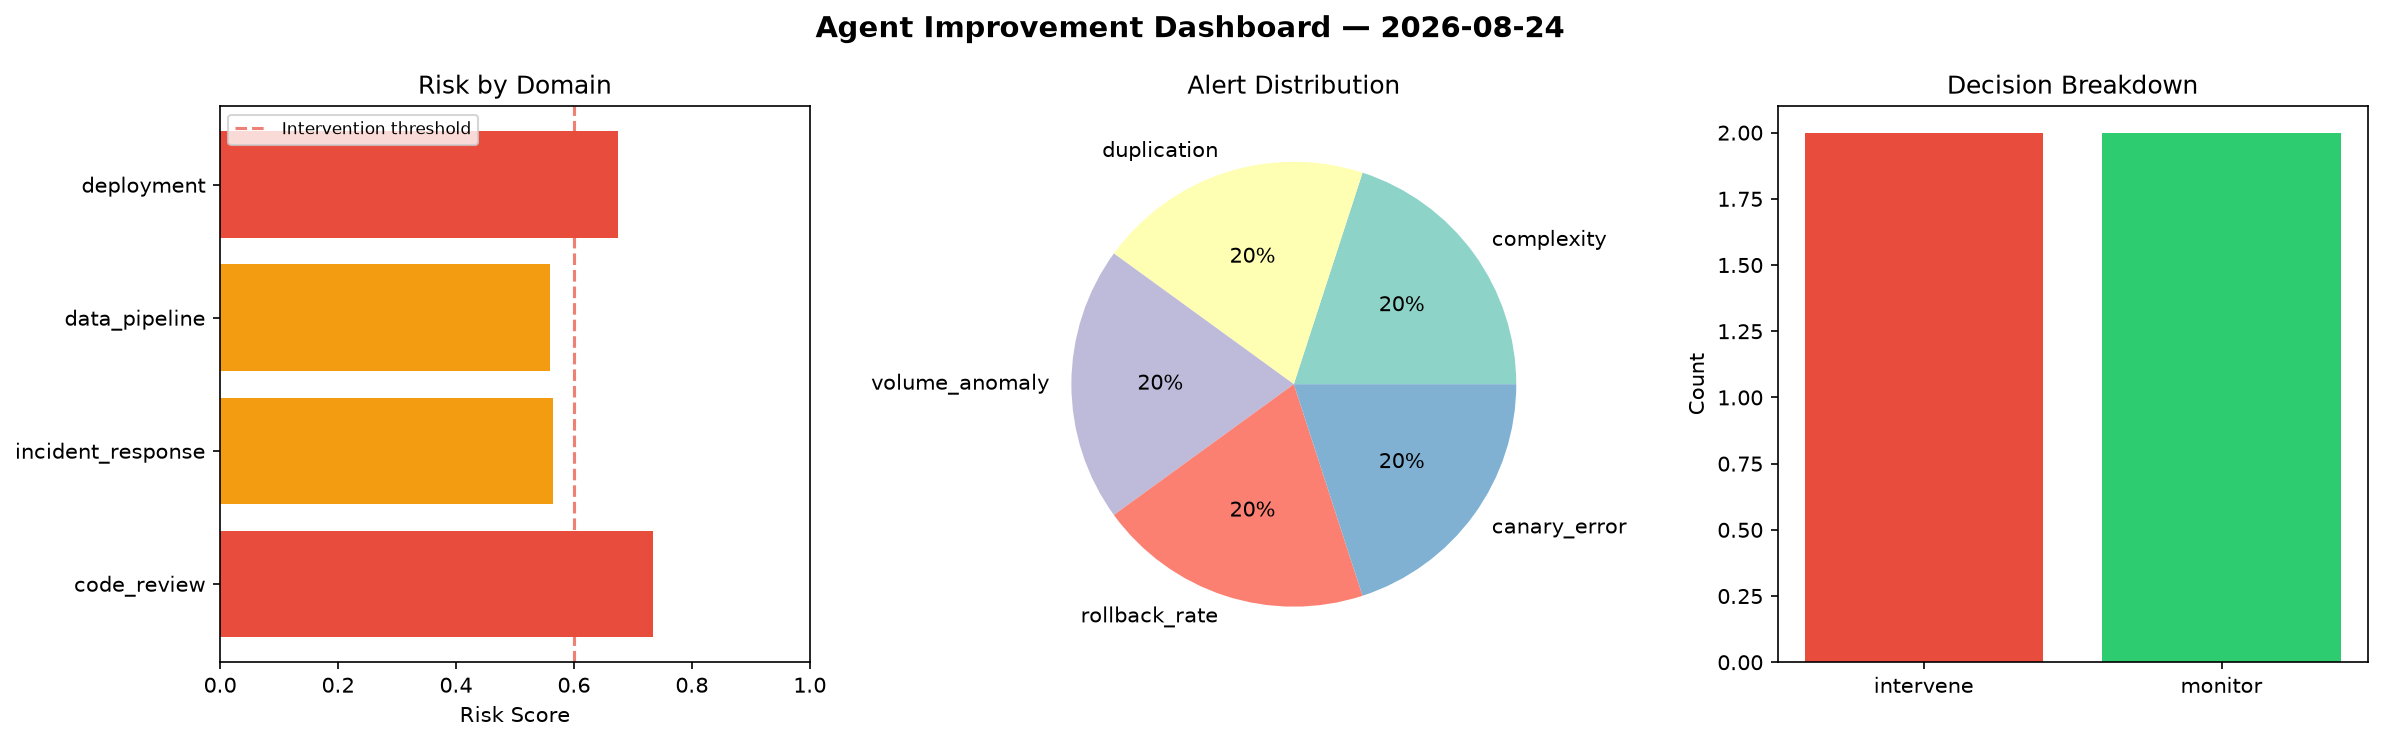
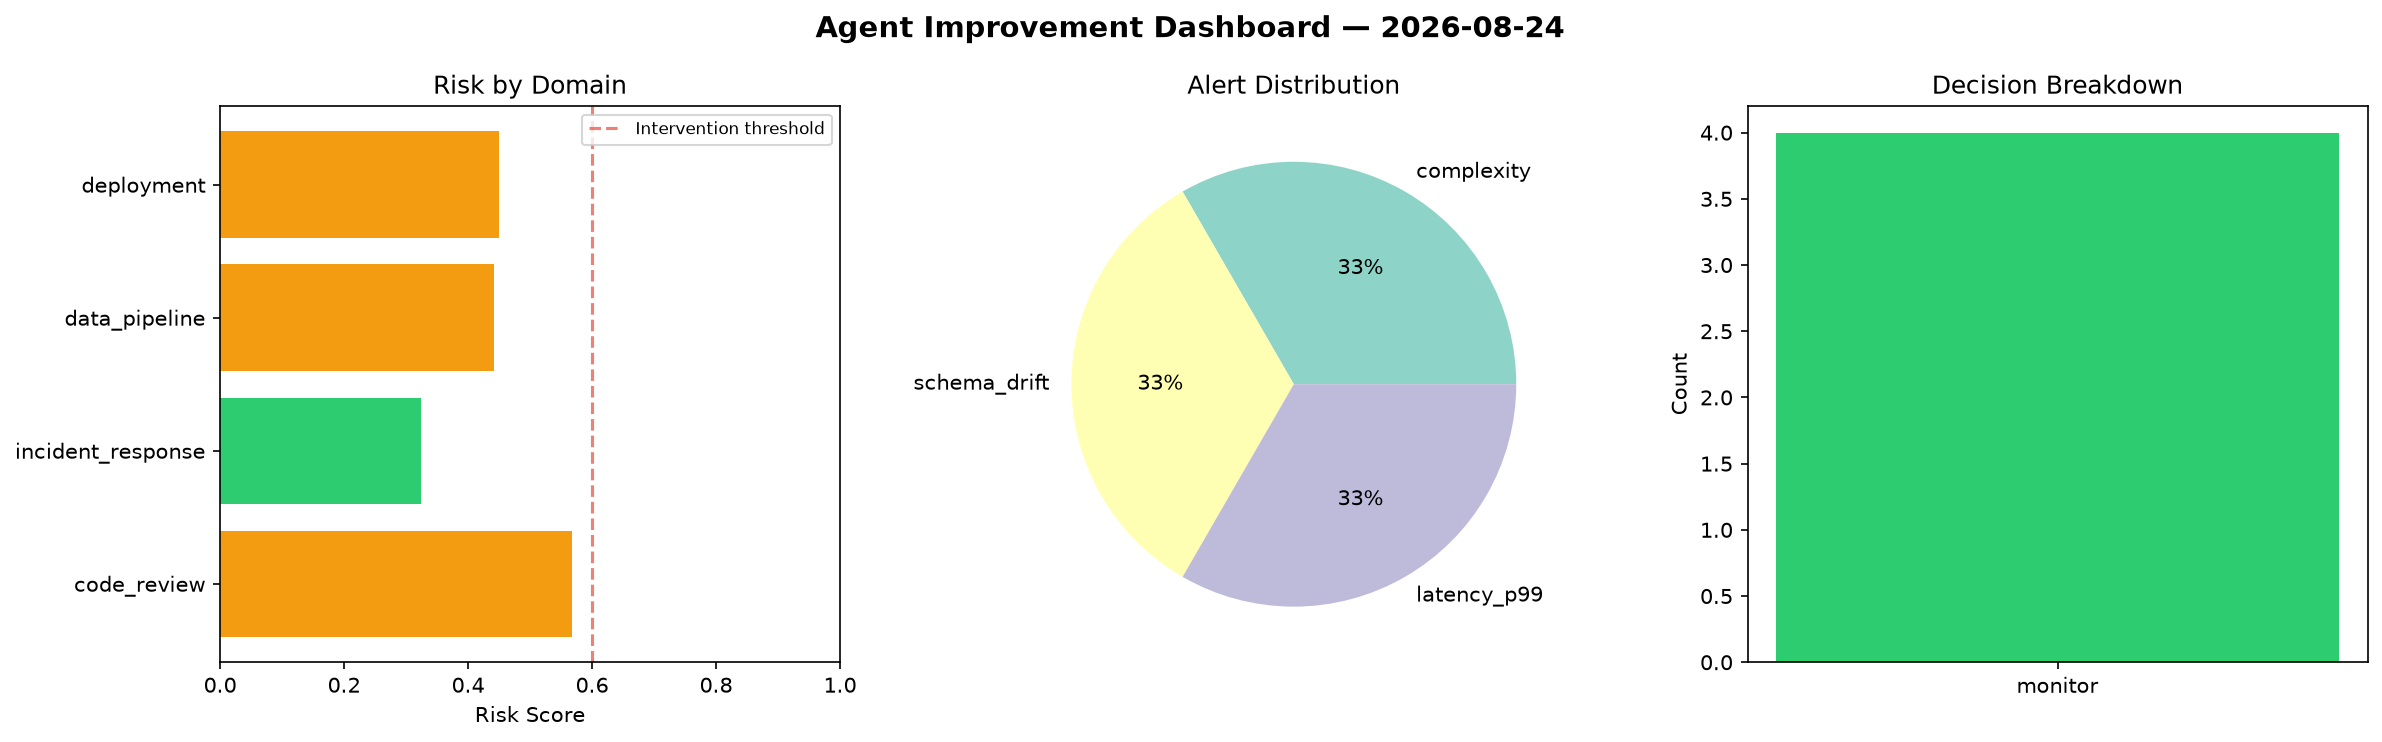
agent-improvement: daily cycle 2026-08-24T09:03

diff --git a/logs/2026-08-24.md b/logs/2026-08-24.md
@@ -1,6 +1,6 @@
 # Agent Improvement Report — 2026-08-24
 
-**Cycle ID:** `52690092` | **Avg Risk:** 0.6336 | **Interventions:** 2/4
+**Cycle ID:** `dc92d9ae` | **Avg Risk:** 0.4456 | **Interventions:** 0/4
 
 ![Dashboard](2026-08-24_dashboard.png)
 
@@ -10,18 +10,18 @@
 
 | Domain | Risk Score | Decision | Alerts |
 |--------|-----------|----------|--------|
-| code_review | 0.7349 | intervene | complexity, duplication |
-| incident_response | 0.5646 | monitor | none |
-| data_pipeline | 0.5599 | monitor | volume_anomaly |
-| deployment | 0.6749 | intervene | rollback_rate, canary_error |
+| code_review | 0.5669 | monitor | complexity |
+| incident_response | 0.3239 | monitor | none |
+| data_pipeline | 0.4421 | monitor | schema_drift |
+| deployment | 0.4497 | monitor | latency_p99 |
 
 ## Delta vs Yesterday
 
 | Domain | Today | Yesterday | Change |
 |--------|-------|-----------|--------|
-| code_review | 0.7349 | 0.7978 | 📉 -7.9% |
-| incident_response | 0.5646 | 0.5116 | 📈 10.4% |
-| data_pipeline | 0.5599 | 0.4598 | 📈 21.8% |
-| deployment | 0.6749 | 0.6552 | 📈 3.0% |
+| code_review | 0.5669 | 0.7978 | 📉 -28.9% |
+| incident_response | 0.3239 | 0.5116 | 📉 -36.7% |
+| data_pipeline | 0.4421 | 0.4598 | 📉 -3.8% |
+| deployment | 0.4497 | 0.6552 | 📉 -31.4% |
 
 **Refinement:** `{'adjustment': 'maintain', 'trend': 'improving', 'window': 4}`
